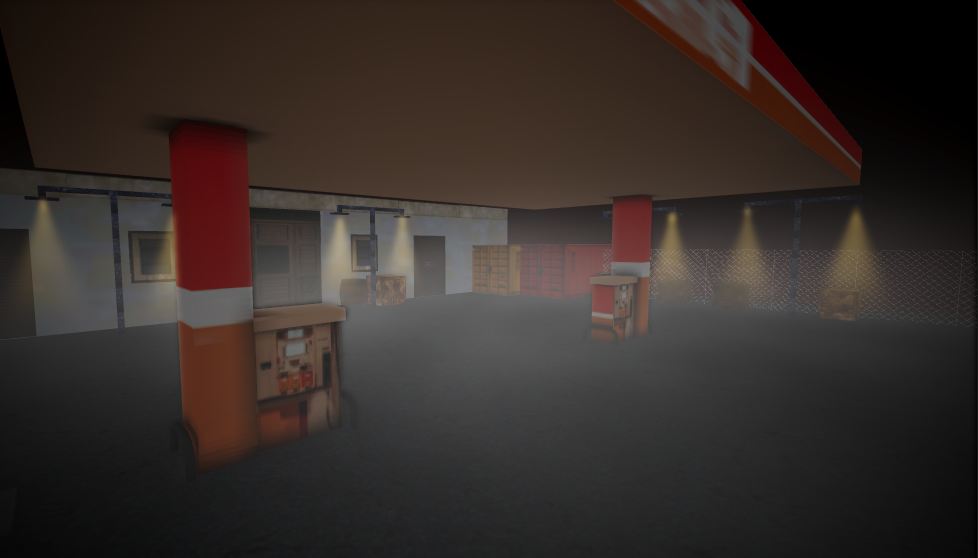
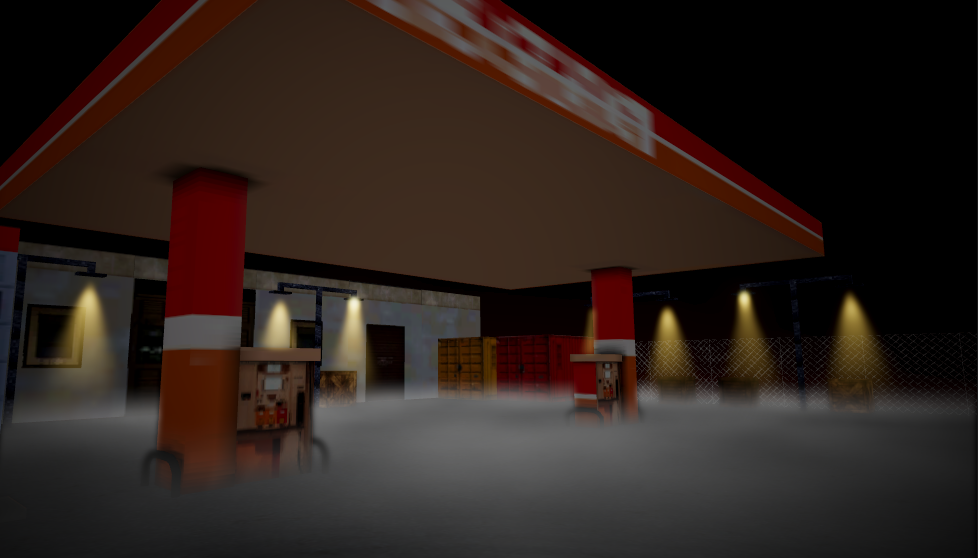
Fixed temporal reprojection

diff --git a/Runtime/VolumetricFogFeature.cs b/Runtime/VolumetricFogFeature.cs
@@ -19,6 +19,7 @@ namespace Sinnwrig.FogVolumes
 
         public bool temporalRendering = false;
         public bool disableBlur = true;
+        public bool beforeTransparents = false;
 
         [Range(2, 16)] public int temporalResolution = 3;
 
@@ -34,7 +35,7 @@ namespace Sinnwrig.FogVolumes
 
             lightPass = new VolumetricFogPass(this, data.bilateralBlur, data.volumetricFog, data.blitAdd, data.reprojection) 
             { 
-                renderPassEvent = RenderPassEvent.BeforeRenderingPostProcessing,
+                renderPassEvent = beforeTransparents ? RenderPassEvent.AfterRenderingTransparents : RenderPassEvent.AfterRenderingSkybox,
             };
         }
 
@@ -68,7 +69,12 @@ namespace Sinnwrig.FogVolumes
             // Don't draw in material previews
             if (!renderingData.cameraData.isPreviewCamera)
             {
-                lightPass.ConfigureInput(ScriptableRenderPassInput.Depth);
+                var input = ScriptableRenderPassInput.Depth;
+
+                if (temporalRendering)
+                    input |= ScriptableRenderPassInput.Motion;
+
+                lightPass.ConfigureInput(input);
                 
                 renderer.EnqueuePass(lightPass);
             }
@@ -78,8 +84,10 @@ namespace Sinnwrig.FogVolumes
         // Ehsure all neccesary shaders are included in the project's GraphicsSettings- to prevent having to do manual reference tracking
         private void ValidateShaders() 
         {
+#if UNITY_EDITOR
             if (data == null)
                 data = AssetDatabase.LoadAssetAtPath<FogVolumeData>("Packages/com.sinnwrig.fogvolumes/Runtime/Data/FogVolumeData.asset");
+#endif
 
             if (data == null)
                 Debug.LogError("Could not find fog volume data. Fog will not render");

diff --git a/Runtime/VolumetricFogPass.cs b/Runtime/VolumetricFogPass.cs
@@ -405,13 +405,15 @@ namespace Sinnwrig.FogVolumes
         // NOTE: only a RenderTexture seems to preserve information between frames on my device, otherwise I'd use an RTHandle or RenderTargetIdentifier
         private RenderTexture temporalBuffer;
 
+        private static System.Random random = new();
+
 
         private void SetTemporalConstants()
         {
             temporalPassIndex = (temporalPassIndex + 1) % (TemporalKernelSize * TemporalKernelSize);
 
             commandBuffer.SetGlobalVector("_TileSize", new Vector2(TemporalKernelSize, TemporalKernelSize));
-            commandBuffer.SetGlobalVector("_PassOffset", new Vector2(Random.Range(0, TemporalKernelSize), Random.Range(0, TemporalKernelSize)));
+            commandBuffer.SetGlobalVector("_PassOffset", new Vector2(random.Next(0, TemporalKernelSize), random.Next(0, TemporalKernelSize)));
         }
 
 

diff --git a/README.md b/README.md
@@ -2,10 +2,6 @@
 
 Implementation of Raymarched Volumetric Fog in Unity's Universal Render Pipeline
 
-### Installation
-
-To add this package to your Unity project, open the Package Manager and add this package using the Git URL option at the top left. Use the link: [https://github.com/sinnwrig/URP-Fog-Volumes.git].
-
 ### Features
 
 * Fog Volume Render Feature.
@@ -22,6 +18,8 @@ To add this package to your Unity project, open the Package Manager and add this
 
 ### Potential issues/Requirements
 
+This asset is not backed by heavy testing, and there is a good chance that some featues are incomplete or buggy. However, I am confident of its current state, and that there are no glaring or apparent bugs. 
+
 * Not tested with VR/AR.
 * Tested on Linux and Windows machines with Unity 2022. Mac, Mobile, and other platforms are untested.
 * Orthographic cameras do not work.
@@ -30,7 +28,7 @@ To add this package to your Unity project, open the Package Manager and add this
 
 * There is currently a hard cap of 32 lights per volume. 
 * Does not use physically based light scattering throughout the volume.
-* Temporal Reprojection does not properly reproject from motion vectors. Function motion vector reprojection is planned to be added in the future.
+* Temporal Reprojection does not properly reproject skybox.
 
 ### Example Scenes
 * Outdoors scene with a Directional Light and light shafts

diff --git a/CHANGELOG.md b/CHANGELOG.md
@@ -1,1 +1,1 @@
-Fixed improper depth sampling when using Temporal Rendering
+Added Temporal Reprojection using motion vectors
